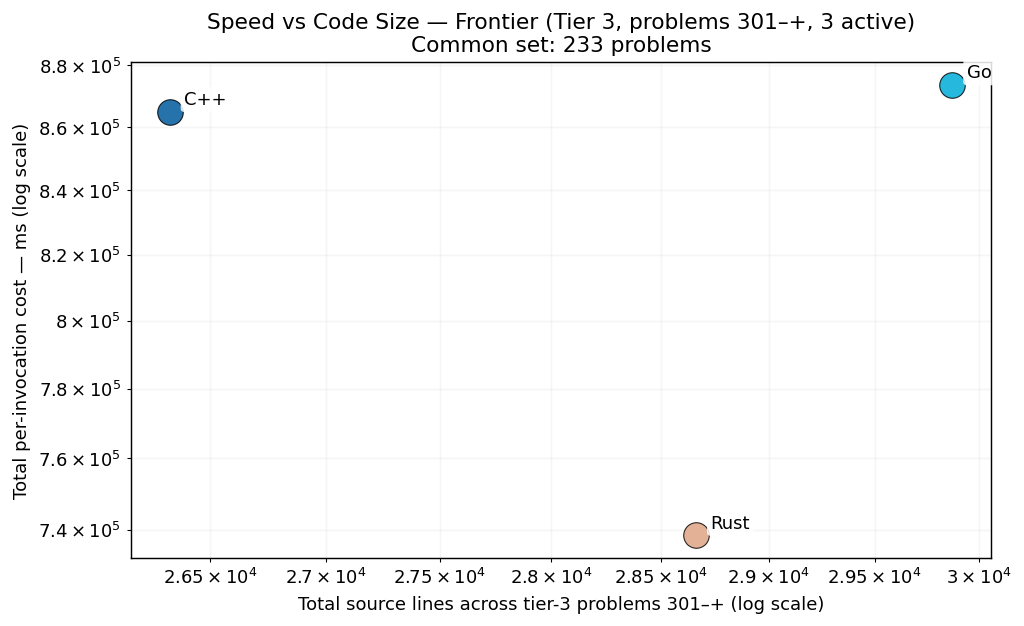
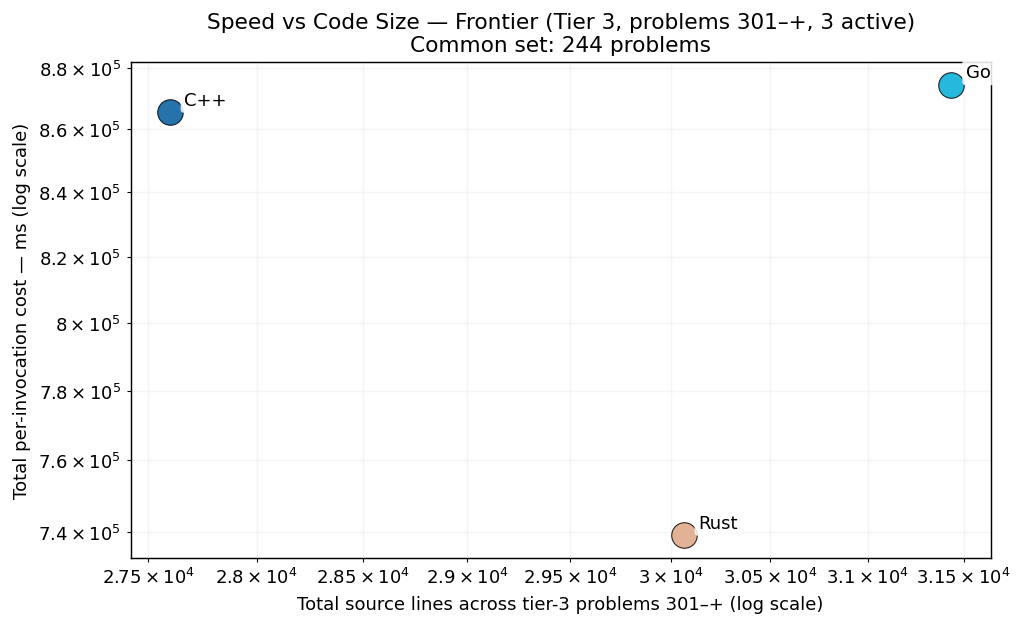
bench go+rust 601-700 backfill batch 2: +22 solves (11 problems, 3-way verified)

diff --git a/per_problem/per_problem_601-700.md b/per_problem/per_problem_601-700.md
@@ -10,7 +10,7 @@ column per language in tier-1 display order (native → managed → interpreted)
 | **p601** | 1.2 µs | 625 ns | 1.8 µs |
 | **p602** | 1.22 s | — | — |
 | **p603** | 196.06 ms | — | — |
-| **p604** | 69.70 ms | — | — |
+| **p604** | 69.70 ms | 65.38 ms | 73.67 ms |
 | **p605** | 292 ns | 250 ns | 1.6 µs |
 | **p606** | 978.74 ms | — | — |
 | **p607** | 12.0 µs | 4.1 µs | 7.3 µs |
@@ -24,8 +24,8 @@ column per language in tier-1 display order (native → managed → interpreted)
 | **p615** | — | — | — |
 | **p616** | — | — | — |
 | **p617** | 18.8 µs | 15.1 µs | 23.5 µs |
-| **p618** | 83.02 ms | — | — |
-| **p619** | 38.25 ms | — | — |
+| **p618** | 83.02 ms | 162.87 ms | 124.39 ms |
+| **p619** | 38.25 ms | 66.82 ms | 43.75 ms |
 | **p620** | — | — | — |
 | **p621** | 4.53 s* | — | — |
 | **p622** | 2.19 ms | 900.3 µs | 651.7 µs |
@@ -40,13 +40,13 @@ column per language in tier-1 display order (native → managed → interpreted)
 | **p631** | — | — | — |
 | **p632** | 1.24 s | — | — |
 | **p633** | — | — | — |
-| **p634** | 7.87 ms | — | — |
+| **p634** | 7.87 ms | 10.03 ms | 10.64 ms |
 | **p635** | 11.19 s* | — | — |
 | **p636** | — | — | — |
 | **p637** | 40.69 s* | — | — |
-| **p638** | 80.30 ms | — | — |
+| **p638** | 80.30 ms | 117.97 ms | 102.12 ms |
 | **p639** | — | — | — |
-| **p640** | 71.19 ms | — | — |
+| **p640** | 71.19 ms | 73.69 ms | 268.27 ms |
 | **p641** | 11.43 s* | — | — |
 | **p642** | 33.41 s* | — | — |
 | **p643** | 455.32 ms* | — | 592.66 ms* |
@@ -59,7 +59,7 @@ column per language in tier-1 display order (native → managed → interpreted)
 | **p650** | 1.09 s | — | — |
 | **p651** | — | — | — |
 | **p652** | — | — | — |
-| **p653** | 23.28 ms | — | — |
+| **p653** | 23.28 ms | 16.82 ms | 64.96 ms |
 | **p654** | 10.66 s* | — | — |
 | **p655** | 6.84 s* | 6.87 s* | 15.79 s* |
 | **p656** | 689.3 µs | 697.8 µs | 840.2 µs |
@@ -75,8 +75,8 @@ column per language in tier-1 display order (native → managed → interpreted)
 | **p666** | 465.2 µs | 444.5 µs | 1.29 ms |
 | **p667** | — | — | — |
 | **p668** | 13.10 ms | 14.53 ms | 17.66 ms |
-| **p669** | 2.58 ms | — | — |
-| **p670** | 54.10 ms | — | — |
+| **p669** | 2.58 ms | 4.48 ms | 3.32 ms |
+| **p670** | 54.10 ms | 58.68 ms | 85.30 ms |
 | **p671** | — | — | — |
 | **p672** | — | — | — |
 | **p673** | 287.3 µs | 64.5 µs | 265.2 µs |
@@ -93,14 +93,14 @@ column per language in tier-1 display order (native → managed → interpreted)
 | **p684** | 35.3 µs | 18.5 µs | 12.9 µs |
 | **p685** | — | — | — |
 | **p686** | — | — | — |
-| **p687** | 42.45 ms | — | — |
+| **p687** | 42.45 ms | 1.02 ms | 1.23 ms |
 | **p688** | 904.96 ms | — | — |
 | **p689** | — | — | — |
 | **p690** | — | — | — |
 | **p691** | 362.17 ms | — | — |
 | **p692** | 49.9 µs | 24.9 µs | 33.2 µs |
 | **p693** | — | — | — |
-| **p694** | 18.96 ms | — | — |
+| **p694** | 18.96 ms | 20.06 ms | 20.60 ms |
 | **p695** | — | — | — |
 | **p696** | — | — | — |
 | **p697** | 10.5 µs | 3.9 µs | 7.6 µs |

diff --git a/RESULTS.md b/RESULTS.md
@@ -1,6 +1,6 @@
 # Project Euler — Cross-Language Benchmarks
 
-> **Scope: 4600 in-scope cells across 1000 problems × tiered languages — 3343 measured (72.7% coverage).**
+> **Scope: 4600 in-scope cells across 1000 problems × tiered languages — 3365 measured (73.2% coverage).**
 > The cross-language ranking below is computed over the **200-problem common set** (problems in 1-200 where every language has a passing measurement) — the apples-to-apples Foundation comparison surface.  Per-tier rankings and coverage detail appear further below.
 > Growing carefully — each new problem and language is audited for state-leak
 > safety, verified for answer correctness, and added only when it cleanly fits the
@@ -68,15 +68,15 @@ Same scatter as the Foundation chart, restricted to the tier-2 active languages 
 
 The frontier verification trio — C++, Go, Rust — on problems above 300. 3-way cross-language agreement is the verification protocol (strictly stronger than 2-way; see JOURNEY.md "Tier Reframing" episode for the p254 lesson that motivated it). Python and Zig are explicitly out of this tier — python's wall cost makes it impractical at level 5+, and zig's role caps at Tier 2.
 
-### Per-Invocation Cost (Common Set, 233 of ≤700 problems in scope)
+### Per-Invocation Cost (Common Set, 244 of ≤700 problems in scope)
 
 ![Per-Invocation Cost — Tier 3](charts/per_iter_total_tier3.png)
 
-| Rank | Language | Total (233-problem common set) | Lines of code | vs Fastest |
+| Rank | Language | Total (244-problem common set) | Lines of code | vs Fastest |
 |------|----------|--------------------:|--------------:|-----------:|
-| 1 | **Rust** | 738.41 s | 28,662 | 1.00× |
-| 2 | **C++** | 864.97 s | 26,328 | 1.17× |
-| 3 | **Go** | 873.63 s | 29,872 | 1.18× |
+| 1 | **Rust** | 739.00 s | 30,065 | 1.00× |
+| 2 | **C++** | 865.46 s | 27,598 | 1.17× |
+| 3 | **Go** | 874.43 s | 31,436 | 1.18× |
 
 ### Speed vs Code Size
 
